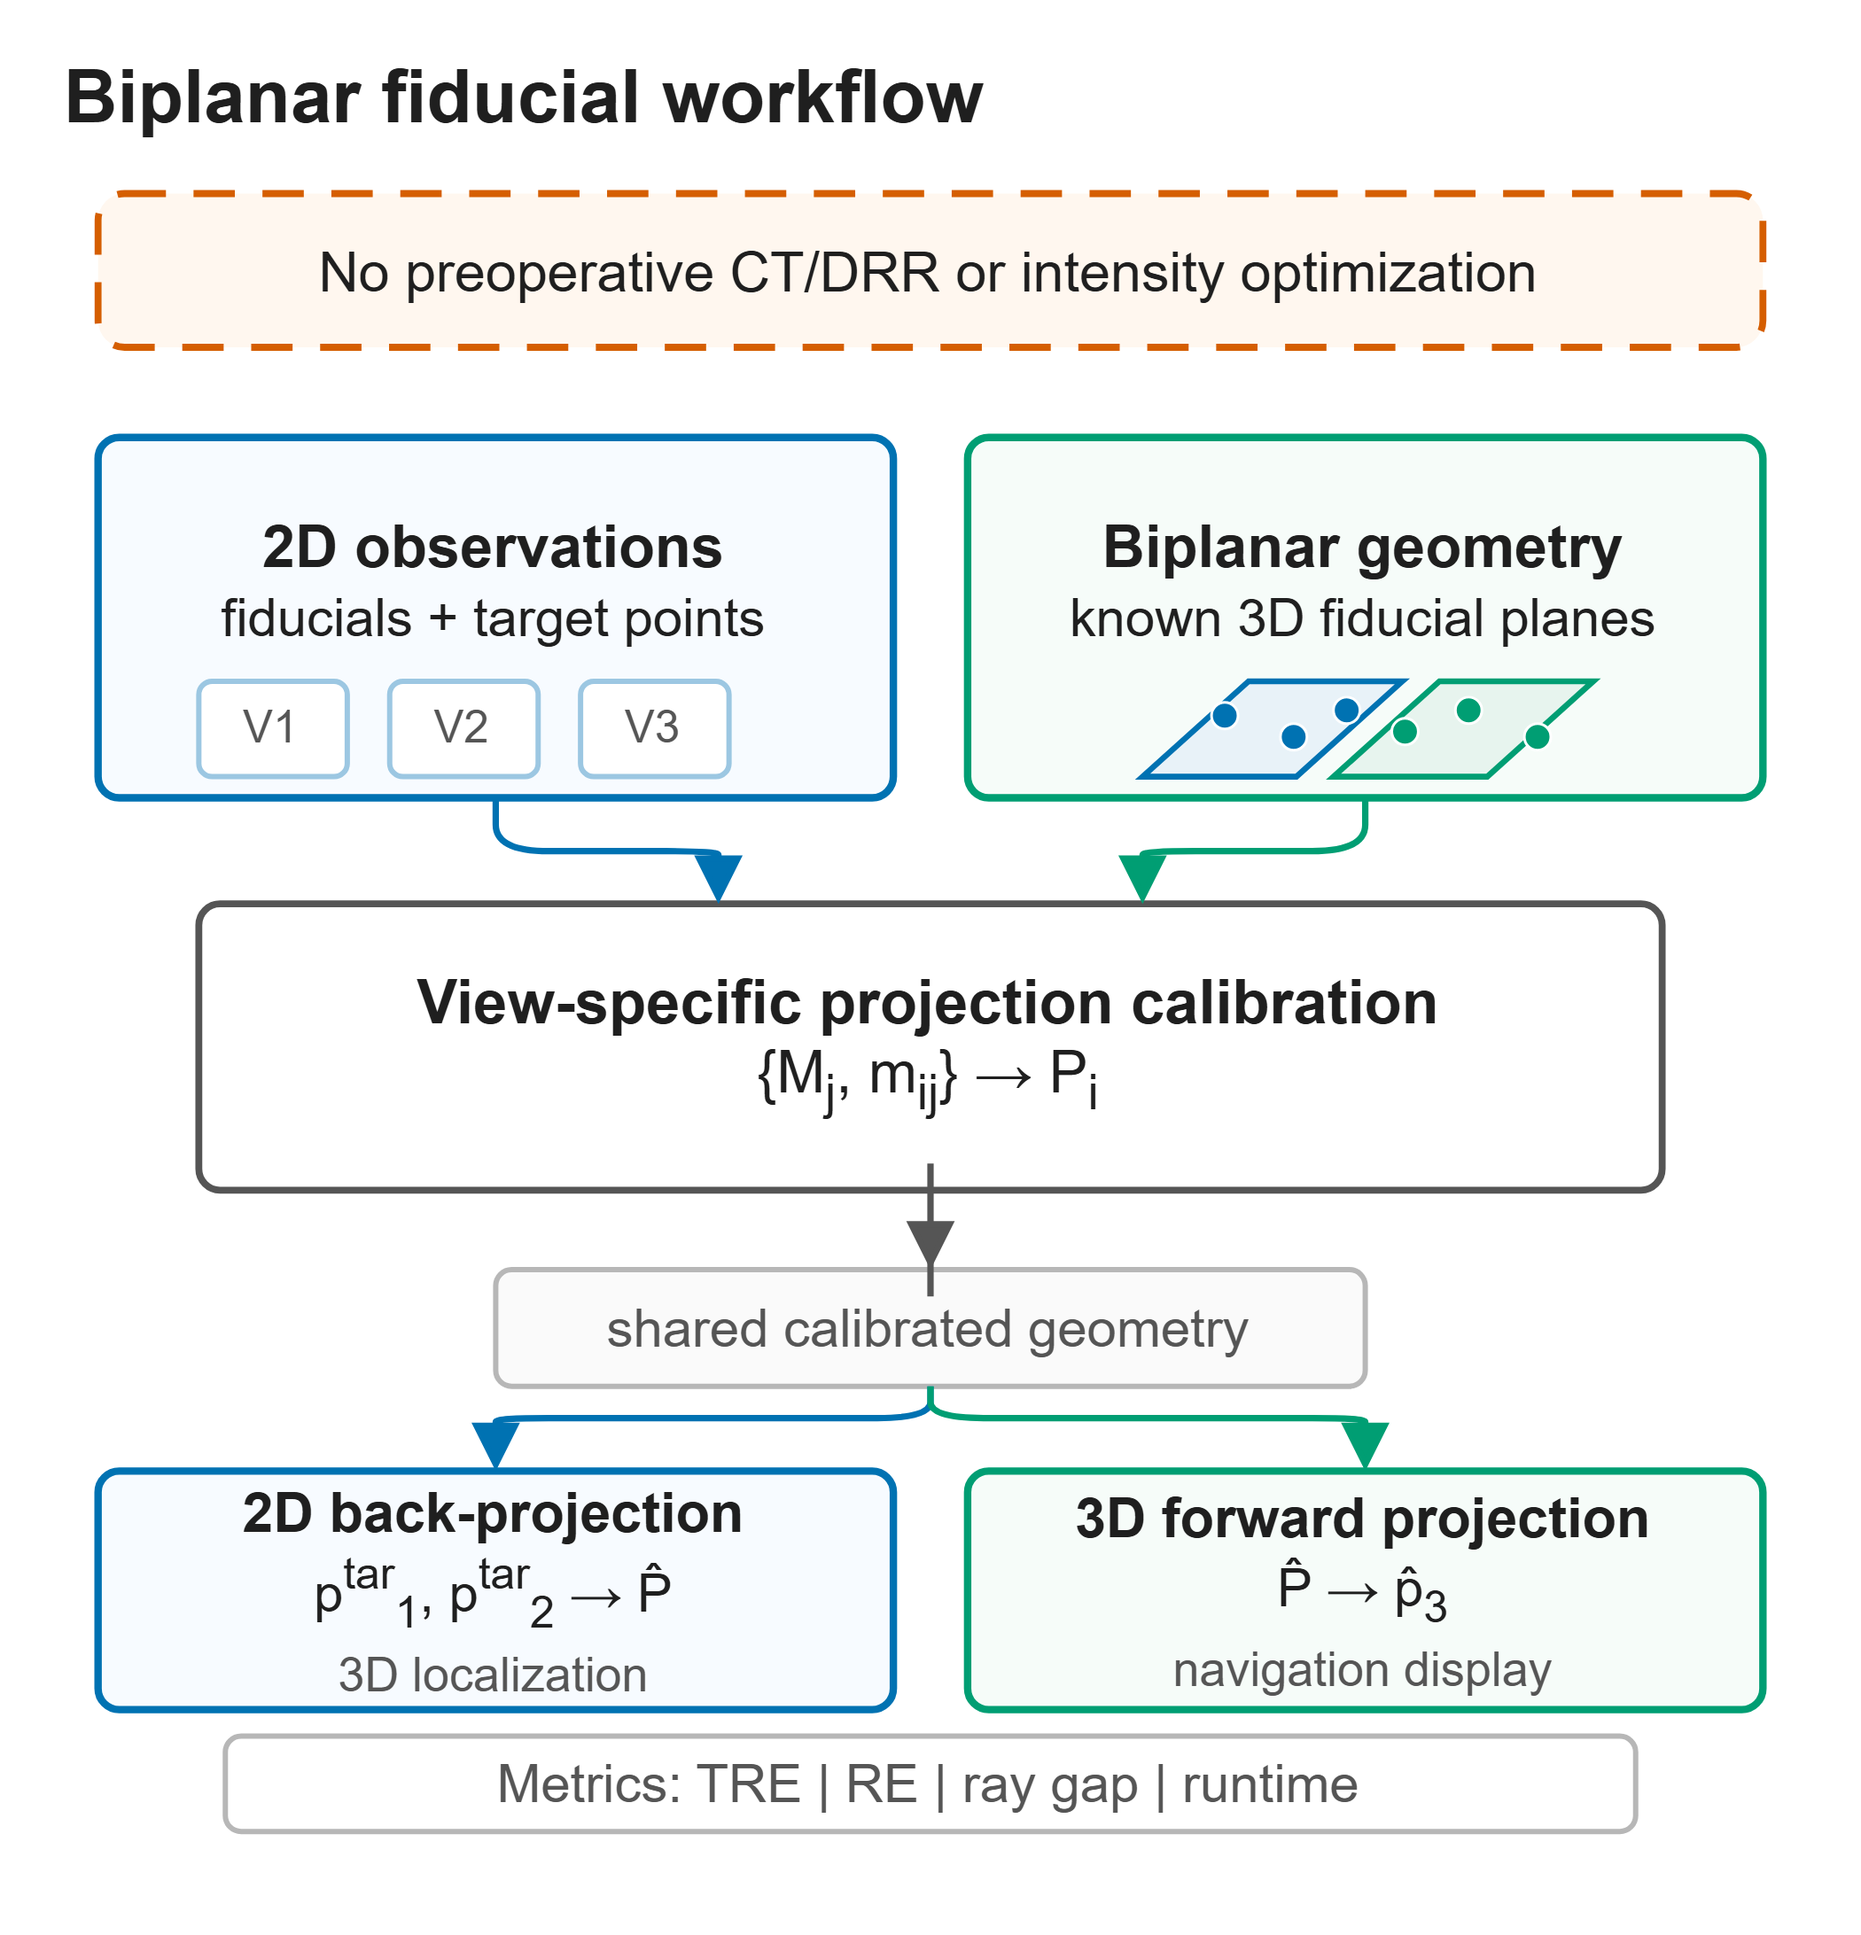
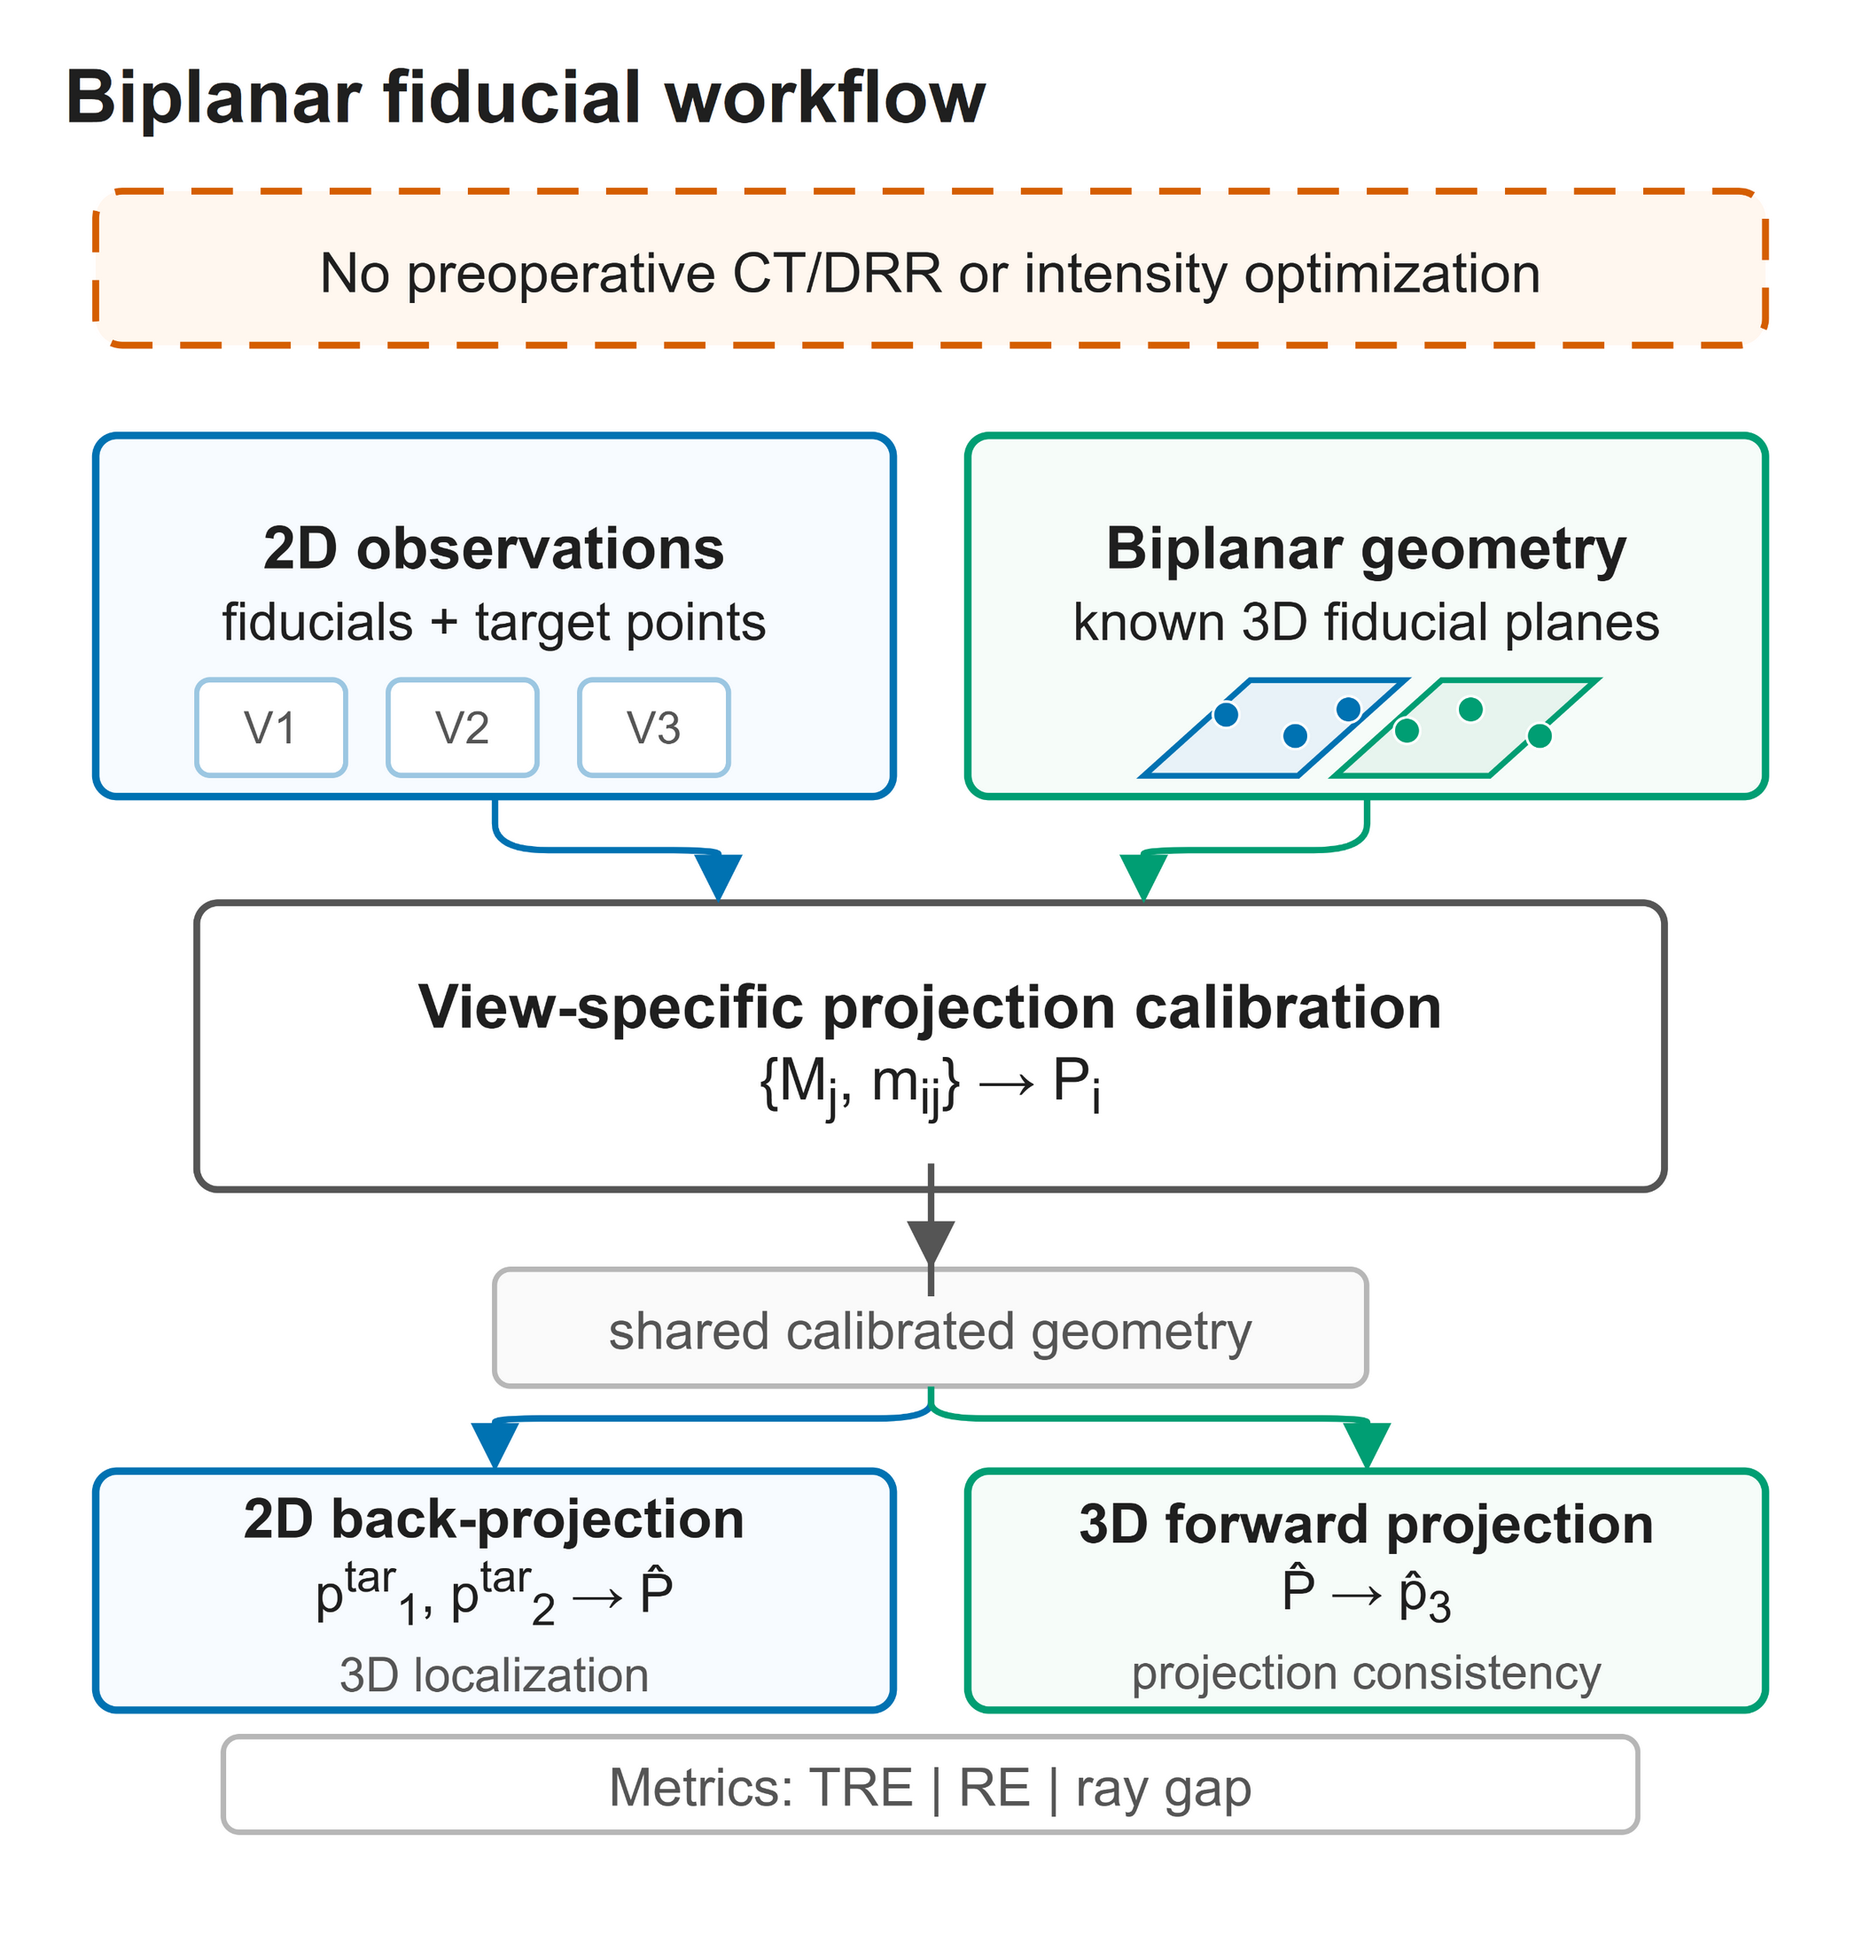
docs: align README with submitted manuscript framing
Update the manuscript title and module description in both READMEs to match
the version under review, replace the navigation-display wording with
third-view projection consistency, and regenerate the framework overview
image accordingly.

diff --git a/README.md b/README.md
@@ -4,15 +4,15 @@
 
 This repository provides the research code and supplementary materials for the manuscript:
 
-> Multiview Target Localization and Navigation Using a Biplanar Fiducial Structure: A Decoupled Validation Study
+> Geometric conditioning and error propagation in biplanar fiducial-based multiview target localization: a simulation study
 
-The manuscript is currently under preparation/review. Paper links and final citation information will be added after publication.
+The manuscript is currently under review. Paper links and final citation information will be added after publication.
 
 <p align="center">
   <img src="docs/assets/fig_framework_overview.png" alt="Biplane framework overview" width="720">
 </p>
 
-Biplane is a 3D Slicer scripted module for validating marker-supported multiview target localization and navigation display. The module uses a known biplanar fiducial structure to estimate projection geometry, reconstruct a 3D target from two 2D observations, and forward-project the reconstructed target into an independent third view for validation.
+Biplane is a 3D Slicer scripted module for validating the geometric chain of fiducial-supported multiview target localization under controlled simulated conditions. The module uses a known biplanar fiducial structure to estimate projection geometry, reconstruct a 3D target from two 2D observations, and forward-project the reconstructed target into an independent third view that did not contribute to localization, in order to assess projection consistency.
 
 ## Repository Status
 
@@ -74,7 +74,7 @@ The module may currently appear under the `Examples` category.
 The following videos document the main validation workflow and the corresponding error-analysis procedures.
 
 <p align="center">
-  <strong>Demonstration 1. Localization and navigation workflow without measurement error</strong><br>
+  <strong>Demonstration 1. Localization and third-view projection workflow without measurement error</strong><br>
   <a href="https://www.youtube.com/watch?v=6F34s5bbvA0">
     <img src="demo_videos/poster-localization-navigation-no-error.png" alt="Demonstration 1 preview" width="720">
   </a><br>

diff --git a/README.zh-CN.md b/README.zh-CN.md
@@ -4,15 +4,15 @@
 
 本仓库提供以下论文的研究代码与补充材料：
 
-> Multiview Target Localization and Navigation Using a Biplanar Fiducial Structure: A Decoupled Validation Study
+> Geometric conditioning and error propagation in biplanar fiducial-based multiview target localization: a simulation study
 
-论文目前处于准备/评审阶段。论文链接与正式引用信息将在发表后补充。
+论文目前处于评审阶段。论文链接与正式引用信息将在发表后补充。
 
 <p align="center">
   <img src="docs/assets/fig_framework_overview.png" alt="Biplane framework overview" width="720">
 </p>
 
-Biplane 是一个 3D Slicer Scripted Module，用于验证基于 marker 支撑的多视角目标定位与导航显示流程。模块利用已知双平面 fiducial 结构估计投影几何，从两个 2D 观测重建 3D 目标点，并将重建结果前向投影到独立第三视图中进行验证。
+Biplane 是一个 3D Slicer Scripted Module，用于在受控仿真条件下验证基于 fiducial 支撑的多视角目标定位几何链。模块利用已知双平面 fiducial 结构估计投影几何，从两个 2D 观测重建 3D 目标点，并将重建结果前向投影到一个未参与定位的独立第三视图中，用于评估投影一致性。
 
 ## 仓库状态
 
@@ -74,7 +74,7 @@ git clone https://github.com/CodingHHW/Biplane.git
 以下视频记录了主要验证流程及其对应的误差分析步骤。
 
 <p align="center">
-  <strong>演示 1：无测量误差的目标定位与导航显示流程</strong><br>
+  <strong>演示 1：无测量误差的目标定位与第三视图投影流程</strong><br>
   <a href="https://www.youtube.com/watch?v=6F34s5bbvA0">
     <img src="demo_videos/poster-localization-navigation-no-error.png" alt="演示 1 预览图" width="720">
   </a><br>
